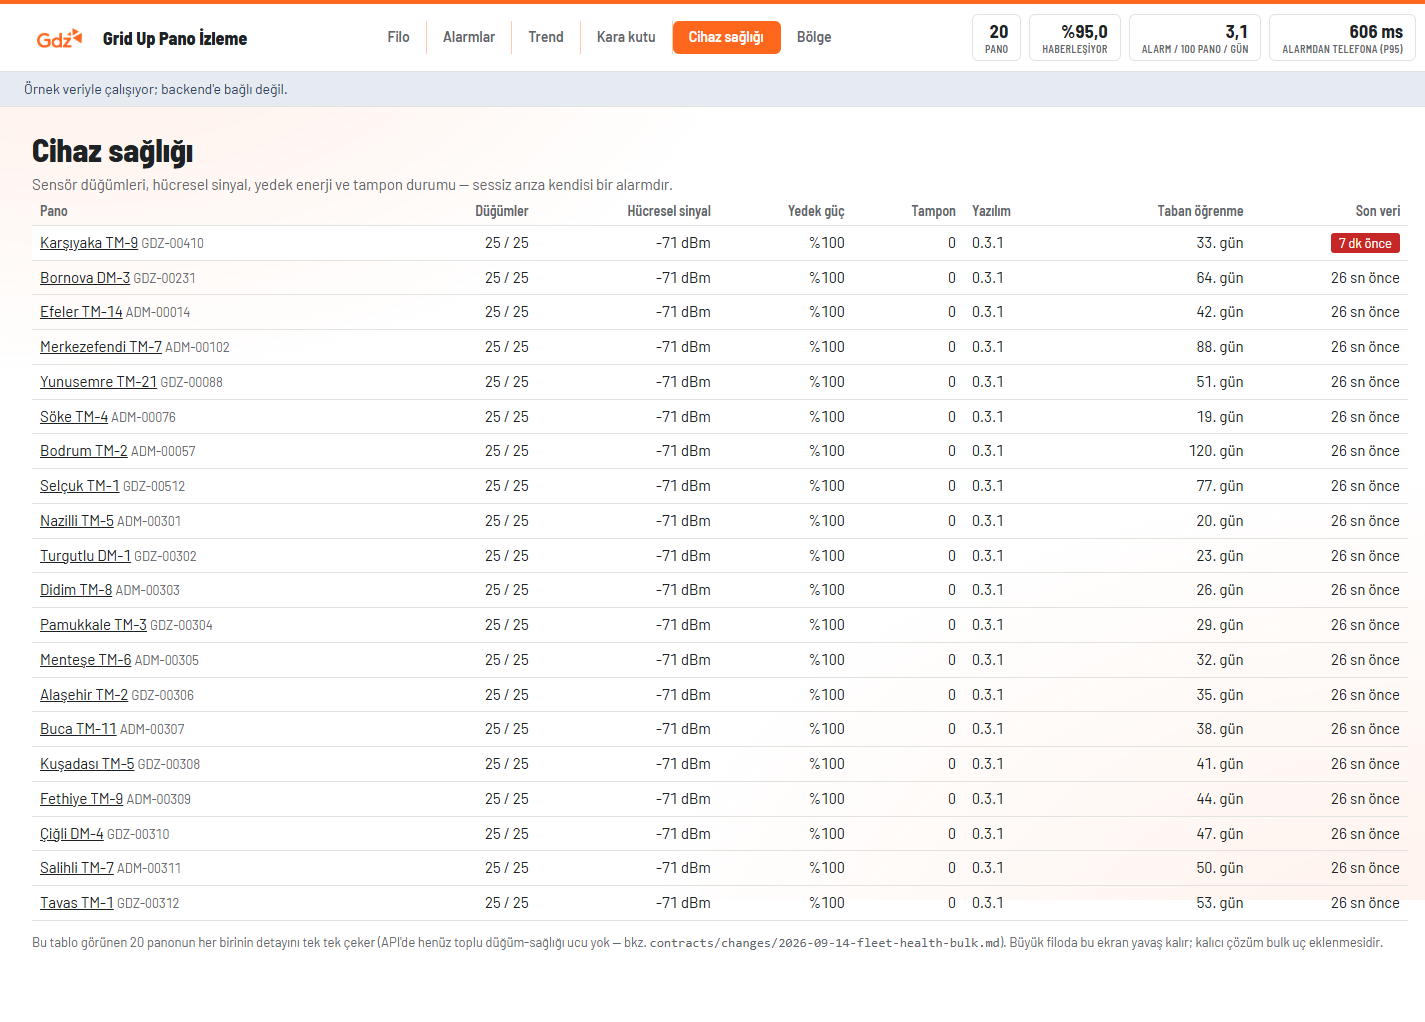
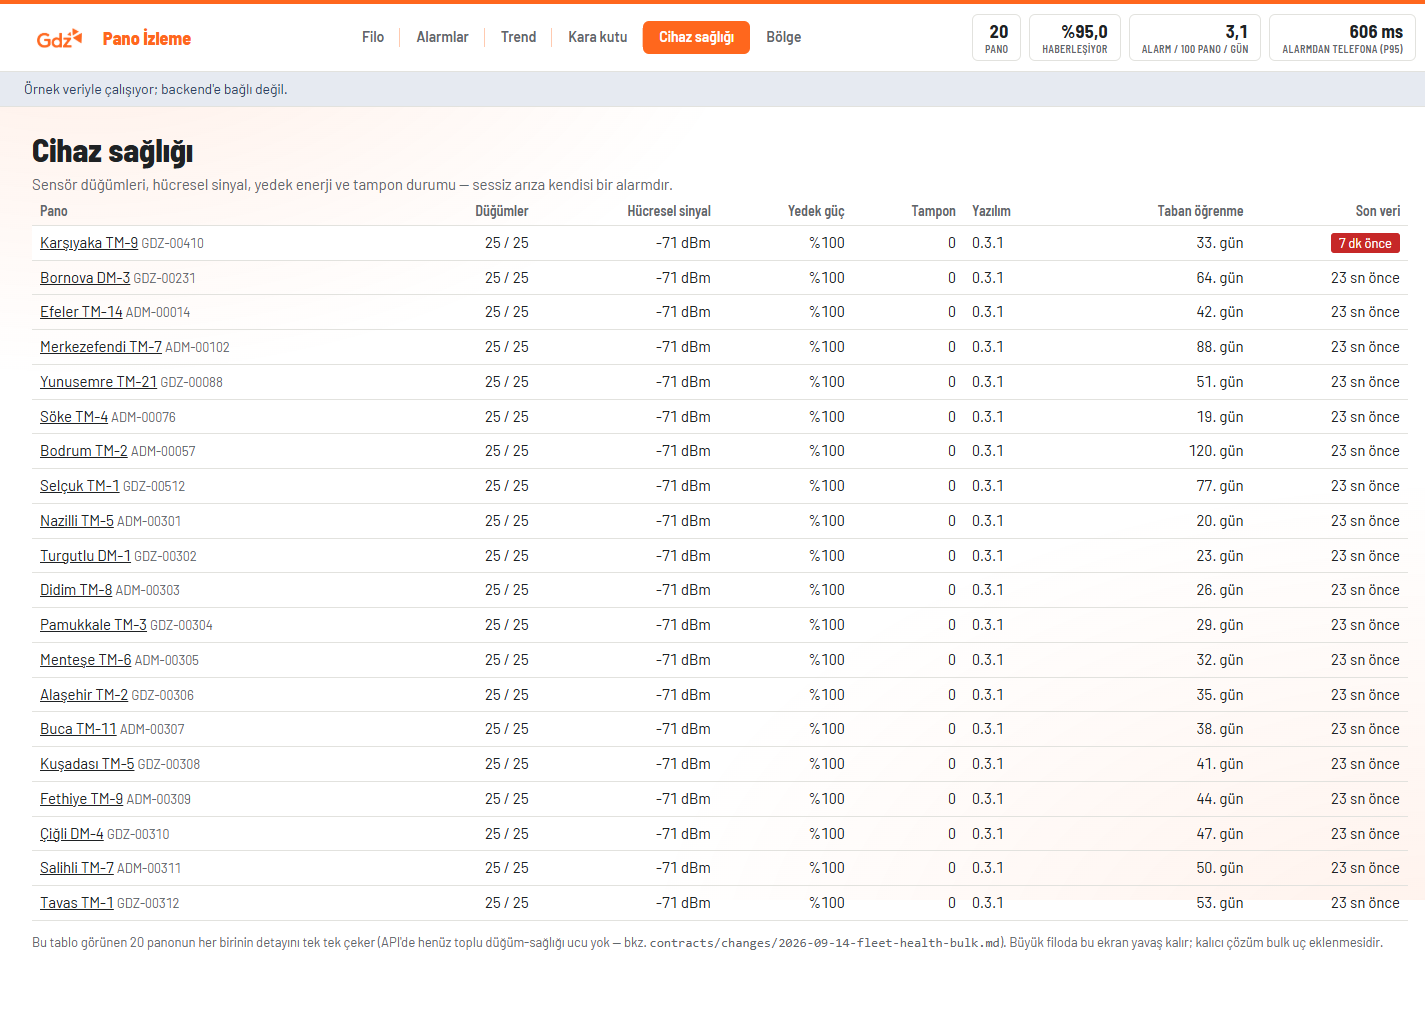
fix(frontend): nav cizgi artefakti, marka metni, harita nokta/surukleme
Kullanici dort geri bildirim gonderdi:

1) Secili nav butonunda "tek kenarinda cizgi varmis gibi" goruntu: ayirici
   border-right, aktif/hover'da arka planla karisip asimetrik goruntu
   veriyordu. Ayrica bir .nav-link::after katmanina tasindi, aktif/hover'da
   tamamen gizleniyor.

2) "Grid Up Pano Izleme" -> "Pano Izleme", turuncu (App.tsx metni
   kisaltildi, .brand'e color: var(--brand) eklendi).

3) "Yunusemre gibi bazi yerlerin noktalari bolge disinda": onceki turda
   eklenen separateDots bazi kucuk/dar ilcelerde noktayi kendi sinirinin
   disina itiyordu. Ray-casting nokta-cokgen testi (pointInRing) eklendi —
   ayristirilmis konum kendi ilcesinin disindaysa GERCEK konuma donuluyor
   (gorsel cakisma onlemekten once dogru konum gosterme geliyor).

4) "Sadece zoom atinca surukleme yapabiliyorum, zoom atmadan da
   surukleyebileyim": onPointerDown'daki scale===ZOOM_MIN koşulu kaldirildi,
   setPointerCapture try/catch'e alindi (nadir istisnalar surukleme
   baslatmayi engellemesin diye).

Ayrica: kullanici PrioMark.tsx'teki "1/2/3/S" rozetlerinin anlamini sordu —
bunlarin ISA-101/ISA-18.2 renk korlugu kodlamasi (renk+sekil+karakter,
gercek DCS/SCADA alarm bannerlarindaki gibi) oldugu aciklandi; "daha
guzel" bir gorsel yon icin once yon netlesmeli, kod degisikligi yapilmadi.

Dogrulama: tsc --noEmit temiz, 71/71 test yesil, vite build basarili.
Chrome-devtools ile nav cizgisi, Yunusemre noktasi, surukleme (zoom=1'de
[…]

Changed region(s): [[0.247, 0.0, 0.5867, 0.0607], [0.0618, 0.0303, 0.1853, 0.0607]]

diff --git a/frontend/src/pages/BolgeHaritasi.tsx b/frontend/src/pages/BolgeHaritasi.tsx
@@ -74,6 +74,20 @@ function separateDots<T extends { x: number; y: number }>(points: T[], minDist: 
   return pts;
 }
 
+/** Ray-casting nokta-cokgen testi — separateDots'un ittigi bir nokta kendi ilcesinin disina
+ *  tasip tasmadigini kontrol etmek icin (kullanici bulgusu: "Yunusemre gibi bazi yerlerin
+ *  noktalari bolge disinda"). */
+function pointInRing(x: number, y: number, ring: { x: number; y: number }[]): boolean {
+  let inside = false;
+  for (let i = 0, j = ring.length - 1; i < ring.length; j = i++) {
+    const xi = ring[i].x, yi = ring[i].y;
+    const xj = ring[j].x, yj = ring[j].y;
+    const intersect = yi > y !== yj > y && x < ((xj - xi) * (y - yi)) / (yj - yi) + xi;
+    if (intersect) inside = !inside;
+  }
+  return inside;
+}
+
 /** Etiketler birbirine cok yakinsa (ayni kume, ornegin Bornova/Karsiyaka/Cigli/Buca) ustuste binip
  *  okunmaz olur. Yalnizca dikey kaydirma yeterli degildi (birbirine 2 boyutta yakin noktalarda
  *  hala cakisiyordu) — simdi noktanin etrafinda (ust/alt/sag/sol/kose) sirayla aday konum dener,
@@ -213,7 +227,18 @@ function GeoHarita({ panels, allCount }: { panels: Geo[]; allCount: number }) {
   const project = projector(allLonLat);
 
   const rawPoints = panels.map((p) => ({ ...project(p.lon, p.lat), p }));
-  const dotPoints = separateDots(rawPoints, 17);
+  const separated = separateDots(rawPoints, 17);
+  // separateDots'un ittigi nokta kendi ilcesinin disina tastiysa, gercek konuma geri don —
+  // gorsel cakisma > yanlis konum gostermek (durustluk kurali). Ilcenin gercek sinirini bu
+  // sekilde asla ihlal etmez, sadece cok siki kumelerde iki nokta yeniden yakin kalabilir.
+  const dotPoints = separated.map((sep, i) => {
+    const raw = rawPoints[i];
+    const geom = TERRITORY[districtKey(sep.p.name)]?.geom;
+    if (!geom) return sep;
+    const rings = ringsOf(geom).map((ring) => ring.map(([lon, lat]) => project(lon, lat)));
+    const inside = rings.some((ring) => pointInRing(sep.x, sep.y, ring));
+    return inside ? sep : raw;
+  });
   const labelOffsets = layoutLabelOffsets(dotPoints.map((d) => ({ x: d.x, y: d.y, text: d.p.name.split(" ")[0] })));
 
   const svgRef = useRef<SVGSVGElement>(null);
@@ -252,9 +277,16 @@ function GeoHarita({ panels, allCount }: { panels: Geo[]; allCount: number }) {
     return () => svg.removeEventListener("wheel", handler);
   }, [toSvgPoint, zoomAt]);
 
+  // Zoom seviyesinden bagimsiz surukleme (kullanici talebi: "sadece zoom atinca surukleme
+  // yapabiliyorum, zoom atmadan da surukleyebileyim") — scale===ZOOM_MIN kosulu kaldirildi.
+  // setPointerCapture bazi durumlarda (gecersiz pointerId, zaten birakilmis pointer) firlatabilir —
+  // bu, surukleme baslatmayi engellemesin diye try/catch'e alindi.
   const onPointerDown = (e: React.PointerEvent<SVGSVGElement>) => {
-    if (view.scale === ZOOM_MIN) return;
-    (e.target as Element).setPointerCapture(e.pointerId);
+    try {
+      (e.target as Element).setPointerCapture(e.pointerId);
+    } catch {
+      // yakalama takibi olmadan da devam eder, yalnizca eleman disina cikildiginda surukleme kesilebilir
+    }
     dragRef.current = { x: e.clientX, y: e.clientY, tx: view.tx, ty: view.ty };
   };
   const onPointerMove = (e: React.PointerEvent<SVGSVGElement>) => {
@@ -282,7 +314,7 @@ function GeoHarita({ panels, allCount }: { panels: Geo[]; allCount: number }) {
           onPointerMove={onPointerMove}
           onPointerUp={onPointerUp}
           onPointerLeave={onPointerUp}
-          style={{ cursor: view.scale > ZOOM_MIN ? "grab" : "default" }}
+          style={{ cursor: "grab" }}
         >
           <rect className="geo-frame" x={1} y={1} width={MAP_W - 2} height={MAP_H - 2} rx={12} />
           <g transform={`translate(${view.tx} ${view.ty}) scale(${view.scale})`}>

diff --git a/frontend/src/app.css b/frontend/src/app.css
@@ -12,25 +12,25 @@
   border-bottom: 1px solid var(--line);
   flex-wrap: wrap;
 }
-.brand { display: inline-flex; align-items: center; gap: 8px; font: 800 18px var(--display); text-decoration: none; }
+/* "Pano Izleme" turuncu yazi (kullanici talebi 16 Eylul — kisaltilmis marka metni). */
+.brand { display: inline-flex; align-items: center; gap: 8px; font: 800 18px var(--display); text-decoration: none; color: var(--brand); }
 /* Gercek GDZ logosu, gercek sitedeki header logo olcegine yakin (kullanici talebi, 16 Eylul). */
 .brand-mark { flex: none; height: 40px; width: auto; }
-/* Ortalanmis nav + aralarinda ince turuncu ayirici cizgiler (kullanici talebi 16 Eylul). */
+/* Ortalanmis nav; ayirici artik ayri bir dekoratif oge (.nav-link::after) — boylece secili/hover
+   durumdaki dugmenin KENDI kutusuna karismiyor (once border-right idi, secili durumda tek
+   kenarda tuhaf bir cizgi gibi goruluyordu, kullanici bulgusu). */
 .nav { display: flex; align-items: center; gap: 0; flex: 1; justify-content: center; flex-wrap: wrap; }
-.nav-link {
-  color: var(--dim);
-  text-decoration: none;
-  padding: 6px 16px;
-  font-size: 14px;
-  font-weight: 700;
-  border-right: 1px solid rgba(255, 103, 29, 0.35);
-}
+.nav-link { position: relative; color: var(--dim); text-decoration: none; padding: 6px 16px; font-size: 14px; font-weight: 700; }
+.nav-link::after { content: ""; position: absolute; right: 0; top: 20%; bottom: 20%; width: 1px; background: rgba(255, 103, 29, 0.35); }
 .nav-link:first-child { padding-left: 10px; }
-.nav-link:last-child { border-right: none; padding-right: 10px; }
+.nav-link:last-child { padding-right: 10px; }
+.nav-link:last-child::after { display: none; }
 /* Hover: hafif turuncu dolgu (once notr gri idi, kullanici talebi). */
 .nav-link:hover { background: rgba(255, 103, 29, 0.1); color: var(--ink); border-radius: var(--radius-sm); }
+.nav-link:hover::after { display: none; }
 /* Secili durum: tam marka turuncusu + beyaz metin (kullanici talebi, 16 Eylul). */
 .nav-link.active { background: var(--brand); color: #fff; border-radius: var(--radius-sm); }
+.nav-link.active::after { display: none; }
 
 /* KPI seridi: duz metin yerine yukseltilmis "buyuk sayi" karolari (GE Vernova / ABB filo panolari). */
 /* margin-left:auto kaldirildi — .nav artik flex:1 ile araya yayiliyor, kpis'i sagda tutmaya yeter. */

diff --git a/frontend/src/App.tsx b/frontend/src/App.tsx
@@ -28,7 +28,7 @@ export function App() {
         <header className="topbar">
           <Link to="/" className="brand">
             <BrandMark />
-            Grid Up Pano İzleme
+            Pano İzleme
           </Link>
           <nav className="nav" aria-label="Ana gezinme">
             {NAV.map((n) => (

diff --git a/frontend/TASARIM-REVIZYONU.md b/frontend/TASARIM-REVIZYONU.md
@@ -744,6 +744,47 @@ butonlar turuncu, harita wheel'i sayfayı kaydırmıyor, risk matrisi legend+eti
 mobil navbar doğru satırlara bölünüyor), konsolda hata yok. `assets/ekran/`'daki 8 dosyanın
 TAMAMI yenilendi — nav ve arka plan her sayfada değiştiği için hepsi güncel değildi.
 
+## 23. Nav çizgi artefaktı, marka metni, harita nokta/sürükleme düzeltmeleri (16 Eylül, aynı gün)
+
+Kullanıcı dört ayrı geri bildirim daha gönderdi:
+
+**1. Seçili nav butonunda "tek kenarında çizgi varmış gibi" bir görünüm.** Kök neden: her
+`.nav-link`'in ayırıcısı `border-right` olarak KENDİ kutusunun bir parçasıydı — aktif/hover
+durumda arka plan turuncuya dönünce, o kenardaki border rengi (yarı saydam turuncu) arka planla
+karışıp asimetrik bir çizgi izlenimi veriyordu. Ayırıcı artık `.nav-link::after` ile ayrı, dekoratif
+bir katman (mutlak konumlu ince çizgi) — aktif/hover durumda `display:none` ile tamamen kayboluyor,
+buton kutusunun kendisi hiçbir zaman kendi kenarında yabancı bir çizgi taşımıyor.
+
+**2. "Grid Up Pano İzleme" → "Pano İzleme", turuncu.** `App.tsx`'teki marka metni kısaltıldı,
+`.brand`'e `color: var(--brand)` eklendi.
+
+**3. "Yunusemre gibi bazı yerlerin noktaları bölge dışında."** §22'de eklenen `separateDots`
+(çakışan noktaları ayırma) bazı durumlarda bir noktayı kendi ilçesinin sınırının dışına itiyordu
+— küçük/dar ilçelerde itme mesafesi ilçenin kendi genişliğinden büyük olabiliyordu. Ray-casting
+nokta-çokgen testi (`pointInRing`) eklendi: ayrıştırılmış konum kendi ilçesinin içinde değilse,
+noktanın GERÇEK (ayrıştırılmamış) konumuna geri dönülüyor. Öncelik sırası netleşti: gerçek konum
+göstermek, görsel çakışmayı önlemekten önce gelir (dürüstlük kuralı) — bu yüzden çok sıkı
+kümelerde iki nokta yine de yakın kalabilir, ama hiçbir zaman yanlış bölgede görünmez.
+
+**4. "Sadece zoom atınca sürükleme yapabiliyorum, zoom atmadan da sürükleyebileyim."**
+`onPointerDown`'daki `if (view.scale === ZOOM_MIN) return;` koşulu kaldırıldı — harita artık her
+zoom seviyesinde sürüklenebilir. `setPointerCapture` çağrısı olası (nadir) bir istisnaya karşı
+try/catch'e alındı ki sürükleme başlatma hiçbir zaman sessizce engellenmesin.
+
+**Ayrı bir soru (kod değişikliği değil):** Kullanıcı "1, 3, S falan neyi ifade ediyor" diye sordu
+(`PrioMark.tsx`'teki öncelik rozetleri). Yanıt: bunlar rastgele kodlar değil — ISA-101/ISA-18.2
+endüstriyel alarm yönetimi geleneğinde renk körlüğüne karşı **renk + şekil + karakter** üçlü
+kodlaması (P1=kare "1", P2=üçgen "2", P3=daire "3", SYS=çerçeveli daire "S"); gerçek DCS/SCADA
+alarm bannerlarında (Honeywell Experion, ABB 800xA, Yokogawa CENTUM) da aynı mantık kullanılır.
+Kullanıcıya bu açıklandı, "daha güzel" bir görsel yön istenirse (ayrı bir taşer/tercih kararı
+olduğu için) somut bir yön onaylandıktan sonra uygulanacak — kod değişikliği yapılmadı.
+
+**Doğrulama:** `tsc --noEmit` temiz, 71/71 test yeşil, `vite build` başarılı. Chrome-devtools ile
+nav çizgisi (artık temiz), Yunusemre noktası (artık ilçe içinde), sürükleme (zoom=1'de de
+çalışıyor, `pointerdown`→`pointermove` simülasyonuyla doğrulandı) 1440px ve 390px'de kontrol
+edildi, konsolda hata yok. `assets/ekran/`'daki 8 dosyanın tamamı (marka metni + nav her sayfada
+değiştiği için) yeniden yenilendi.
+
 ## Kaynaklar
 
 - ADM Elektrik: <https://www.admelektrik.com.tr/> · GDZ Elektrik: <https://www.gdzelektrik.com.tr/>

diff --git a/STATUS.md b/STATUS.md
@@ -9,11 +9,28 @@
 > PLAN.md'de yalnızca kutucuk işaretleme ve "Günlük Kayıt" satırı ekleme yapılır (kural: ortak dosya).
 > Her önemli adımdan sonra bu dosya güncellenir. Dal: `berke/frontend` (origin'e push edildi).
 
-**Son güncelleme:** 16 Eylül 2026 (Toplu okunabilirlik turu: wheel-scroll, buton renkleri, navbar,
-arka plan, kartlar, risk matrisi, §24).
-**Son commit:** Harita wheel'i artık sayfayı kaydırmıyor (native passive:false dinleyici); tüm
-seçili-durum butonları turuncu; navbar ortalandı + turuncu ayırıcılar; arka plan tüm sayfaya
-yayıldı; risk matrisine legend eklendi.
+**Son güncelleme:** 16 Eylül 2026 (Nav çizgi artefaktı, "Pano İzleme" marka metni, harita
+nokta/sürükleme düzeltmeleri, §25).
+**Son commit:** Seçili nav butonundaki tuhaf çizgi giderildi; marka "Pano İzleme" + turuncu oldu;
+haritada nokta artık kendi ilçesi dışına taşmıyor; sürükleme zoom olmadan da çalışıyor.
+
+## 25. Nav çizgisi, marka metni, harita nokta/sürükleme (kullanıcı geri bildirimi)
+
+Dört geri bildirim: (1) seçili nav butonunda tek kenarda tuhaf bir çizgi — ayırıcı `border-right`
+yerine ayrı bir `::after` katmanına taşındı, aktif/hover'da tamamen gizleniyor; (2) "Grid Up Pano
+İzleme" → "Pano İzleme" + turuncu; (3) Yunusemre gibi bazı ilçelerde nokta bölge dışına taşıyordu
+— `separateDots`'un ittiği nokta kendi ilçesinin dışına çıkarsa artık gerçek konumuna geri
+dönüyor (ray-casting nokta-çokgen testi, `pointInRing`); (4) harita yalnızca zoom'luyken
+sürüklenebiliyordu — `scale===ZOOM_MIN` koşulu kaldırıldı, her zoom seviyesinde sürüklenebiliyor.
+
+Ayrıca kullanıcı `PrioMark.tsx`'teki "1/2/3/S" rozetlerinin ne anlama geldiğini sordu — bunların
+ISA-101/ISA-18.2 renk körlüğü kodlaması (renk+şekil+karakter, gerçek DCS/SCADA alarm
+bannerlarındaki gibi) olduğu açıklandı; "daha güzel" bir görsel yön istenirse önce yön netleşsin
+diye kod değişikliği yapılmadı. Ayrıntı: `frontend/TASARIM-REVIZYONU.md` §23.
+
+Doğrulama: tsc/test/build temiz, 1440px ve 390px'de kontrol edildi (sürükleme
+pointerdown/pointermove simülasyonuyla da doğrulandı), konsolda hata yok. `assets/ekran/`'daki 8
+dosya (marka metni her sayfada değiştiği için) tekrar yenilendi.
 
 ## 24. Toplu okunabilirlik turu: 7 geri bildirim tek seferde (16 Eylül, aynı tur)
 
